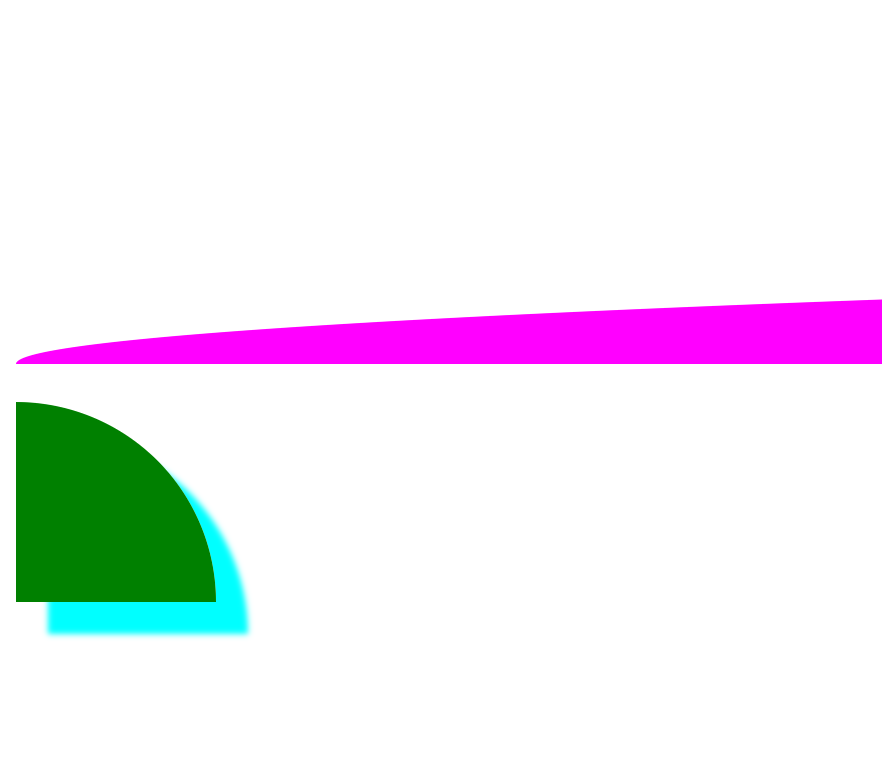
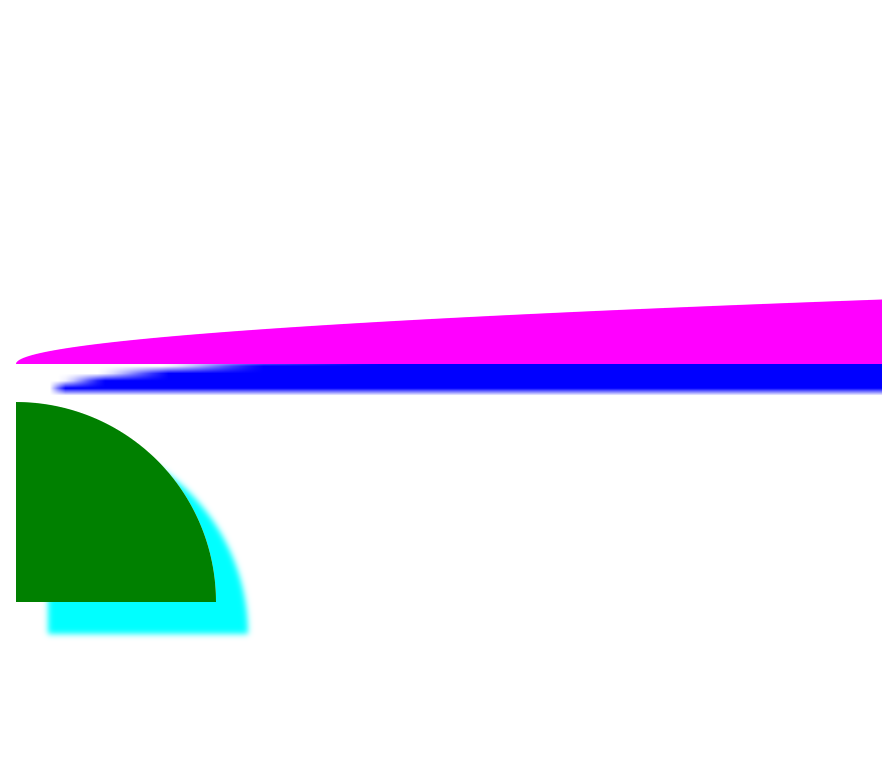
clip: Downscale box shadows earlier.
This fixes https://bugzilla.mozilla.org/show_bug.cgi?id=1505953, and all shadows
with a large blur radius in general.

The key here is to not downscale the original allocation rect and the primitive
rect, which is what we use for stretching, but downscale the actual render task
and the filters.

This is a regression from #3230

Changed region(s): [[0.0612, 0.4627, 1.0, 0.5244]]

diff --git a/src/webrender/src/clip.rs b/src/webrender/src/clip.rs
@@ -10,7 +10,6 @@ use api::{VoidPtrToSizeFn, LayoutRectAu, ImageKey, AuHelpers};
 use app_units::Au;
 use border::{ensure_no_corner_overlap, BorderRadiusAu};
 use box_shadow::{BLUR_SAMPLE_SCALE, BoxShadowClipSource, BoxShadowCacheKey};
-use box_shadow::get_max_scale_for_box_shadow;
 use clip_scroll_tree::{ClipScrollTree, ROOT_SPATIAL_NODE_INDEX, SpatialNodeIndex};
 use ellipse::Ellipse;
 use gpu_cache::{GpuCache, GpuCacheHandle, ToGpuBlocks};
@@ -339,8 +338,8 @@ impl ClipNode {
             ClipItem::BoxShadow(ref mut info) => {
                 if let Some(mut request) = gpu_cache.request(&mut self.gpu_cache_handle) {
                     request.push([
-                        info.shadow_rect_alloc_size.width,
-                        info.shadow_rect_alloc_size.height,
+                        info.original_alloc_size.width,
+                        info.original_alloc_size.height,
                         info.clip_mode as i32 as f32,
                         0.0,
                     ]);
@@ -358,21 +357,15 @@ impl ClipNode {
                 // Gaussian blur with a standard deviation equal to half the blur radius."
                 let blur_radius_dp = info.blur_radius * 0.5;
 
-                // Create scaling from requested size to cache size.  If the
-                // requested size exceeds the maximum size of the cache, the
-                // box shadow will be scaled down and stretched when rendered
-                // into the document.
-                let world_scale = LayoutToWorldScale::new(1.0);
-                let mut content_scale = world_scale * device_pixel_scale;
-                let max_scale = get_max_scale_for_box_shadow(&info.shadow_rect_alloc_size);
-                content_scale.0 = content_scale.0.min(max_scale.0);
+                // Create scaling from requested size to cache size.
+                let content_scale = LayoutToWorldScale::new(1.0) * device_pixel_scale;
 
                 // Create the cache key for this box-shadow render task.
                 let cache_size = to_cache_size(info.shadow_rect_alloc_size * content_scale);
                 let bs_cache_key = BoxShadowCacheKey {
                     blur_radius_dp: (blur_radius_dp * content_scale.0).round() as i32,
                     clip_mode: info.clip_mode,
-                    rect_size: (info.shadow_rect_alloc_size * content_scale).round().to_i32(),
+                    original_alloc_size: (info.original_alloc_size * content_scale).round().to_i32(),
                     br_top_left: (info.shadow_radius.top_left * content_scale).round().to_i32(),
                     br_top_right: (info.shadow_radius.top_right * content_scale).round().to_i32(),
                     br_bottom_right: (info.shadow_radius.bottom_right * content_scale).round().to_i32(),
@@ -881,6 +874,105 @@ pub enum ClipItem {
     BoxShadow(BoxShadowClipSource),
 }
 
+fn compute_box_shadow_parameters(
+    shadow_rect: LayoutRect,
+    mut shadow_radius: BorderRadius,
+    prim_shadow_rect: LayoutRect,
+    blur_radius: f32,
+    clip_mode: BoxShadowClipMode,
+) -> BoxShadowClipSource {
+    // Make sure corners don't overlap.
+    ensure_no_corner_overlap(&mut shadow_radius, &shadow_rect);
+
+    // Get the fractional offsets required to match the
+    // source rect with a minimal rect.
+    let fract_offset = LayoutPoint::new(
+        shadow_rect.origin.x.fract().abs(),
+        shadow_rect.origin.y.fract().abs(),
+    );
+    let fract_size = LayoutSize::new(
+        shadow_rect.size.width.fract().abs(),
+        shadow_rect.size.height.fract().abs(),
+    );
+
+    // Create a minimal size primitive mask to blur. In this
+    // case, we ensure the size of each corner is the same,
+    // to simplify the shader logic that stretches the blurred
+    // result across the primitive.
+    let max_corner_width = shadow_radius.top_left.width
+                                .max(shadow_radius.bottom_left.width)
+                                .max(shadow_radius.top_right.width)
+                                .max(shadow_radius.bottom_right.width);
+    let max_corner_height = shadow_radius.top_left.height
+                                .max(shadow_radius.bottom_left.height)
+                                .max(shadow_radius.top_right.height)
+                                .max(shadow_radius.bottom_right.height);
+
+    // Get maximum distance that can be affected by given blur radius.
+    let blur_region = (BLUR_SAMPLE_SCALE * blur_radius).ceil();
+
+    // If the largest corner is smaller than the blur radius, we need to ensure
+    // that it's big enough that the corners don't affect the middle segments.
+    let used_corner_width = max_corner_width.max(blur_region);
+    let used_corner_height = max_corner_height.max(blur_region);
+
+    // Minimal nine-patch size, corner + internal + corner.
+    let min_shadow_rect_size = LayoutSize::new(
+        2.0 * used_corner_width + blur_region,
+        2.0 * used_corner_height + blur_region,
+    );
+
+    // The minimal rect to blur.
+    let mut minimal_shadow_rect = LayoutRect::new(
+        LayoutPoint::new(
+            blur_region + fract_offset.x,
+            blur_region + fract_offset.y,
+        ),
+        LayoutSize::new(
+            min_shadow_rect_size.width + fract_size.width,
+            min_shadow_rect_size.height + fract_size.height,
+        ),
+    );
+
+    // If the width or height ends up being bigger than the original
+    // primitive shadow rect, just blur the entire rect along that
+    // axis and draw that as a simple blit. This is necessary for
+    // correctness, since the blur of one corner may affect the blur
+    // in another corner.
+    let mut stretch_mode_x = BoxShadowStretchMode::Stretch;
+    if shadow_rect.size.width < minimal_shadow_rect.size.width {
+        minimal_shadow_rect.size.width = shadow_rect.size.width;
+        stretch_mode_x = BoxShadowStretchMode::Simple;
+    }
+
+    let mut stretch_mode_y = BoxShadowStretchMode::Stretch;
+    if shadow_rect.size.height < minimal_shadow_rect.size.height {
+        minimal_shadow_rect.size.height = shadow_rect.size.height;
+        stretch_mode_y = BoxShadowStretchMode::Simple;
+    }
+
+    // Expand the shadow rect by enough room for the blur to take effect.
+    let shadow_rect_alloc_size = LayoutSize::new(
+        2.0 * blur_region + minimal_shadow_rect.size.width.ceil(),
+        2.0 * blur_region + minimal_shadow_rect.size.height.ceil(),
+    );
+
+    BoxShadowClipSource {
+        original_alloc_size: shadow_rect_alloc_size,
+        shadow_rect_alloc_size,
+        shadow_radius,
+        prim_shadow_rect,
+        blur_radius,
+        clip_mode,
+        stretch_mode_x,
+        stretch_mode_y,
+        cache_handle: None,
+        cache_key: None,
+        clip_data_handle: GpuCacheHandle::new(),
+        minimal_shadow_rect,
+    }
+}
+
 impl ClipItem {
     pub fn new_box_shadow(
         shadow_rect: LayoutRect,
@@ -889,95 +981,54 @@ impl ClipItem {
         blur_radius: f32,
         clip_mode: BoxShadowClipMode,
     ) -> Self {
-        // Make sure corners don't overlap.
-        ensure_no_corner_overlap(&mut shadow_radius, &shadow_rect);
-
-        // Get the fractional offsets required to match the
-        // source rect with a minimal rect.
-        let fract_offset = LayoutPoint::new(
-            shadow_rect.origin.x.fract().abs(),
-            shadow_rect.origin.y.fract().abs(),
-        );
-        let fract_size = LayoutSize::new(
-            shadow_rect.size.width.fract().abs(),
-            shadow_rect.size.height.fract().abs(),
-        );
-
-        // Create a minimal size primitive mask to blur. In this
-        // case, we ensure the size of each corner is the same,
-        // to simplify the shader logic that stretches the blurred
-        // result across the primitive.
-        let max_corner_width = shadow_radius.top_left.width
-                                    .max(shadow_radius.bottom_left.width)
-                                    .max(shadow_radius.top_right.width)
-                                    .max(shadow_radius.bottom_right.width);
-        let max_corner_height = shadow_radius.top_left.height
-                                    .max(shadow_radius.bottom_left.height)
-                                    .max(shadow_radius.top_right.height)
-                                    .max(shadow_radius.bottom_right.height);
-
-        // Get maximum distance that can be affected by given blur radius.
-        let blur_region = (BLUR_SAMPLE_SCALE * blur_radius).ceil();
-
-        // If the largest corner is smaller than the blur radius, we need to ensure
-        // that it's big enough that the corners don't affect the middle segments.
-        let used_corner_width = max_corner_width.max(blur_region);
-        let used_corner_height = max_corner_height.max(blur_region);
-
-        // Minimal nine-patch size, corner + internal + corner.
-        let min_shadow_rect_size = LayoutSize::new(
-            2.0 * used_corner_width + blur_region,
-            2.0 * used_corner_height + blur_region,
-        );
-
-        // The minimal rect to blur.
-        let mut minimal_shadow_rect = LayoutRect::new(
-            LayoutPoint::new(
-                blur_region + fract_offset.x,
-                blur_region + fract_offset.y,
-            ),
-            LayoutSize::new(
-                min_shadow_rect_size.width + fract_size.width,
-                min_shadow_rect_size.height + fract_size.height,
-            ),
-        );
-
-        // If the width or height ends up being bigger than the original
-        // primitive shadow rect, just blur the entire rect along that
-        // axis and draw that as a simple blit. This is necessary for
-        // correctness, since the blur of one corner may affect the blur
-        // in another corner.
-        let mut stretch_mode_x = BoxShadowStretchMode::Stretch;
-        if shadow_rect.size.width < minimal_shadow_rect.size.width {
-            minimal_shadow_rect.size.width = shadow_rect.size.width;
-            stretch_mode_x = BoxShadowStretchMode::Simple;
-        }
-
-        let mut stretch_mode_y = BoxShadowStretchMode::Stretch;
-        if shadow_rect.size.height < minimal_shadow_rect.size.height {
-            minimal_shadow_rect.size.height = shadow_rect.size.height;
-            stretch_mode_y = BoxShadowStretchMode::Simple;
-        }
-
-        // Expand the shadow rect by enough room for the blur to take effect.
-        let shadow_rect_alloc_size = LayoutSize::new(
-            2.0 * blur_region + minimal_shadow_rect.size.width.ceil(),
-            2.0 * blur_region + minimal_shadow_rect.size.height.ceil(),
-        );
-
-        ClipItem::BoxShadow(BoxShadowClipSource {
-            shadow_rect_alloc_size,
+        let mut source = compute_box_shadow_parameters(
+            shadow_rect,
             shadow_radius,
             prim_shadow_rect,
             blur_radius,
             clip_mode,
-            stretch_mode_x,
-            stretch_mode_y,
-            cache_handle: None,
-            cache_key: None,
-            clip_data_handle: GpuCacheHandle::new(),
-            minimal_shadow_rect,
-        })
+        );
+
+        fn needed_downscaling(source: &BoxShadowClipSource) -> Option<f32> {
+            // This size is fairly arbitrary, but it's the same as the size that
+            // we use to avoid caching big blurred stacking contexts.
+            //
+            // If you change it, ensure that the reftests
+            // box-shadow-large-blur-radius-* still hit the downscaling path,
+            // and that they render correctly.
+            const MAX_SIZE: f32 = 2048.;
+
+            let max_dimension =
+                source.shadow_rect_alloc_size.width.max(source.shadow_rect_alloc_size.height);
+
+            if max_dimension > MAX_SIZE {
+                Some(MAX_SIZE / max_dimension)
+            } else {
+                None
+            }
+        }
+
+        if let Some(downscale) = needed_downscaling(&source) {
+            shadow_radius.bottom_left.height *= downscale;
+            shadow_radius.bottom_left.width *= downscale;
+            shadow_radius.bottom_right.height *= downscale;
+            shadow_radius.bottom_right.width *= downscale;
+            shadow_radius.top_left.height *= downscale;
+            shadow_radius.top_left.width *= downscale;
+            shadow_radius.top_right.height *= downscale;
+            shadow_radius.top_right.width *= downscale;
+
+            let original_alloc_size = source.shadow_rect_alloc_size;
+            source = compute_box_shadow_parameters(
+                shadow_rect.scale(downscale, downscale),
+                shadow_radius,
+                prim_shadow_rect,
+                blur_radius * downscale,
+                clip_mode,
+            );
+            source.original_alloc_size = original_alloc_size;
+        }
+        ClipItem::BoxShadow(source)
     }
 
     // Get an optional clip rect that a clip source can provide to

diff --git a/src/webrender/src/box_shadow.rs b/src/webrender/src/box_shadow.rs
@@ -3,7 +3,7 @@
  * file, You can obtain one at http://mozilla.org/MPL/2.0/. */
 
 use api::{BorderRadius, BoxShadowClipMode, ClipMode, ColorF, DeviceIntSize, LayoutPrimitiveInfo};
-use api::{LayoutRect, LayoutSize, LayoutToDeviceScale, LayoutVector2D, MAX_BLUR_RADIUS};
+use api::{LayoutRect, LayoutSize, LayoutVector2D, MAX_BLUR_RADIUS};
 use clip::ClipItemKey;
 use display_list_flattener::DisplayListFlattener;
 use gpu_cache::GpuCacheHandle;
@@ -12,12 +12,6 @@ use prim_store::{BrushKind, BrushPrimitive, PrimitiveContainer};
 use prim_store::ScrollNodeAndClipChain;
 use render_task::RenderTaskCacheEntryHandle;
 use util::RectHelpers;
-
-/// In the majority of cases box-shadow radius in device pixels should be quite
-/// small (< 256), so the choice of max is trade off between panic! in
-/// pathological case of being presented with huge radius and using too much
-/// texture memory for better rendering of such cases.
-const MAX_BOX_SHADOW_RESOLUTION: u32 = 2048;
 
 #[derive(Debug, Clone)]
 #[cfg_attr(feature = "capture", derive(Serialize))]
@@ -38,6 +32,10 @@ pub struct BoxShadowClipSource {
 
     // Local-space size of the required render task size.
     pub shadow_rect_alloc_size: LayoutSize,
+
+    // Local-space size of the required render task size without any downscaling
+    // applied. This is needed to stretch the shadow properly.
+    pub original_alloc_size: LayoutSize,
 
     // The minimal shadow rect for the parameters above,
     // used when drawing the shadow rect to be blurred.
@@ -60,7 +58,9 @@ pub const BLUR_SAMPLE_SCALE: f32 = 3.0;
 pub struct BoxShadowCacheKey {
     pub blur_radius_dp: i32,
     pub clip_mode: BoxShadowClipMode,
-    pub rect_size: DeviceIntSize,
+    // NOTE(emilio): Only the original allocation size needs to be in the cache
+    // key, since the actual size is derived from that.
+    pub original_alloc_size: DeviceIntSize,
     pub br_top_left: DeviceIntSize,
     pub br_top_right: DeviceIntSize,
     pub br_bottom_right: DeviceIntSize,
@@ -249,9 +249,4 @@ fn adjust_radius_for_box_shadow(border_radius: f32, spread_amount: f32) -> f32 {
     } else {
         0.0
     }
-}
-
-pub fn get_max_scale_for_box_shadow(rect_size: &LayoutSize) -> LayoutToDeviceScale {
-    let r = rect_size.width.max(rect_size.height);
-    LayoutToDeviceScale::new(MAX_BOX_SHADOW_RESOLUTION as f32 / r)
 }

diff --git a/src/webrender/src/prim_store.rs b/src/webrender/src/prim_store.rs
@@ -2715,8 +2715,8 @@ impl BrushPrimitive {
                     segment_builder.push_mask_region(
                         info.prim_shadow_rect,
                         info.prim_shadow_rect.inflate(
-                            -0.5 * info.shadow_rect_alloc_size.width,
-                            -0.5 * info.shadow_rect_alloc_size.height,
+                            -0.5 * info.original_alloc_size.width,
+                            -0.5 * info.original_alloc_size.height,
                         ),
                         inner_clip_mode,
                     );
